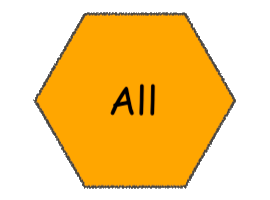
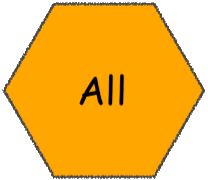
fixed cursor hover issue

Changed region(s): [[0.0, 0.0, 1.0, 1.0], [0.375, 0.3889, 0.6058, 0.5833]]

diff --git a/src/app/pages/phoneme-categories/phoneme-categories.component.css b/src/app/pages/phoneme-categories/phoneme-categories.component.css
@@ -12,35 +12,59 @@
 }
 /* Phonics Categories */
 #consonants {
-    background: url('../../../assets/img/buttons/consonants.png') no-repeat scroll 0 0 transparent;
+    background: url('../../../assets/img/buttons/consonants.png') no-repeat scroll transparent;
+    background-position: center;
+    width: 39vh;
+    height: 26vh;
+    cursor: pointer;
 }
 
 #consonant_blends {
-    background: url('../../../assets/img/buttons/consonant_blends.png') no-repeat scroll 0 0 transparent;
+    background: url('../../../assets/img/buttons/consonant_blends.png') no-repeat scroll transparent;
+    background-position: center;
+    cursor: pointer;
 }
 
 #vowel_and_consonants {
-    background: url('../../../assets/img/buttons/vowels_and_consonants.png') no-repeat scroll 0 0 transparent;
+    background: url('../../../assets/img/buttons/vowels_and_consonants.png') no-repeat scroll transparent;
+    background-position: center;
+    width: 35vh;
+    height: 28vh;
+    cursor: pointer;
 }
 
 #vowels {
-    background: url('../../../assets/img/buttons/vowels.png') no-repeat scroll 0 0 transparent;
+    background: url('../../../assets/img/buttons/vowels.png') no-repeat scroll transparent;
+    background-position: center;
+    width: 32vh;
+    height: 25vh;
+    cursor: pointer;
 }
 
 #vowel_pairs {
-    background: url('../../../assets/img/buttons/vowel_pairs.png') no-repeat scroll 0 0 transparent;
+    background: url('../../../assets/img/buttons/vowel_pairs.png') no-repeat scroll transparent;
+    background-position: center;
+    margin-left: 4.5vh;
+    height: 28vh;
+    width: 28.5vh;
+    cursor: pointer;
 }
 
 #all {
-    background: url('../../../assets/img/buttons/all.png') no-repeat scroll 0 0 transparent;
+    background: url('../../../assets/img/buttons/all.png') no-repeat scroll transparent;
+    background-position: center;
+    margin-left: 2.5vh;
+    width: 30vh;
+    height: 26vh;
+    cursor: pointer;
 }
 
 .category_button {
     width: 39vh;
     height: 29vh;
-    margin-top: 5vh;
-    cursor: pointer;
+    margin: 5vh 5vh 0vh 0vh;
     border: none;
+    margin-left: auto;
 }
 
 .row {

diff --git a/src/app/pages/list-select/list-select.component.ts b/src/app/pages/list-select/list-select.component.ts
@@ -5,6 +5,7 @@ import {SightWord} from '../../types/sight-word';
 import {TransferLetterService} from '../../services/transfer-letter-service.service';
 import {ActivatedRoute, Router} from '@angular/router';
 import {Location} from '@angular/common';
+import {delay} from 'q';
 
 @Component({
     selector: 'app-list-select',
